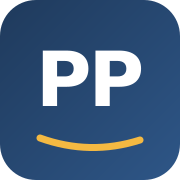
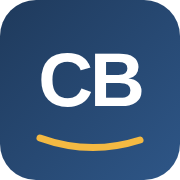
Branding: remove the last Penn references from the platform/demo storefront
Flipping the static shell surfaced more hardcoded Penn copy inside page
components (the demo storefront still said "PennBot"/"PennPaps" in several
places). The fix makes every brand reference dynamic so Penn still renders
PennPaps via host-resolution while the platform, demo, and new tenants show
CareMetric.

Static shell + push:
- index.html: title, description, OG/Twitter, and JSON-LD flipped to the
  CareMetric platform defaults (cmbreathe.com); per-tenant values are still
  set at runtime by the useDocumentTitle hook.
- public/sw-push.js: push-notification fallback title "PennPaps" →
  "CareMetric Breathe" (+ sw-push.test.ts updated).
- favicon.svg "PP" → "CB" and regenerated favicon-32.png / apple-touch-icon
  from it; the unused logo.svg wordmark → "CareMetric".

Storefront page copy made dynamic (useCompanyContact):
- "Ask PennBot" CTAs and empty-state mentions → {assistantStorefrontName}
  (insurance, faq, help, masks, returns).
- App.tsx order-confirmation message and the provider portal chrome →
  {legalName}; biometric unlock reason → the tenant brand; provider sign-in
  recovery line and FAQ answers reworded brand-neutral.

Verified: a live demo scan of /, /shop, /account, /how-it-works, /insurance,
/faq, /help, /masks, /returns now finds ZERO Penn references; typecheck and
the full cpap-fitter suite (3759 tests) pass.

Claude-Session: https://claude.ai/code/session_01QYRxY1dS7HYjBdg8u4MRgx

diff --git a/artifacts/cpap-fitter/index.html b/artifacts/cpap-fitter/index.html
@@ -8,59 +8,58 @@
       copy, and form fields. WCAG 2.1 SC 1.4.4 (Resize text).
     -->
     <meta name="viewport" content="width=device-width, initial-scale=1.0" />
-    <title>
-      PennPaps.com — CPAP Fitter, Shop & Resupply by Penn Home Medical Supply
-    </title>
+    <title>CareMetric Breathe — CPAP Fitter, Shop &amp; Resupply</title>
     <meta
       name="description"
-      content="PennPaps.com is the online CPAP storefront from Penn Home Medical Supply: get fitted for a mask in minutes, shop cushions, filters, and tubing direct, and let us handle insurance and resupply. Privacy-first, on-device fitting."
+      content="CareMetric Breathe is the online CPAP/DME resupply platform: get fitted for a mask in minutes, shop cushions, filters, and tubing direct, and let us handle insurance and resupply. Privacy-first, on-device fitting."
     />
 
     <!--
-      Per-page canonical URLs are managed at runtime by the
-      useDocumentTitle hook (see src/hooks/use-document-title.tsx),
-      which points each route at its production-shaped URL on
-      pennpaps.com. We deliberately do NOT ship a static
-      <link rel="canonical"> here because a single hardcoded
-      canonical would tell search engines that every SPA route is
-      the same as the homepage and collapse indexation.
+      This static shell carries the CareMetric Breathe *platform* defaults.
+      Per-tenant title/description/canonical are set at runtime by the
+      useDocumentTitle hook (see src/hooks/use-document-title.tsx), which
+      points each route at its production-shaped URL on the active tenant's
+      own domain. We deliberately do NOT ship a static
+      <link rel="canonical"> here because a single hardcoded canonical
+      would tell search engines that every SPA route is the same as the
+      homepage and collapse indexation.
     -->
 
     <!-- Open Graph / social preview -->
     <meta property="og:type" content="website" />
     <meta
       property="og:title"
-      content="PennPaps.com — by Penn Home Medical Supply"
+      content="CareMetric Breathe — your CPAP, made simple"
     />
     <meta
       property="og:description"
-      content="Your CPAP, made simple. Get fitted for a mask, shop supplies, and stay on schedule with resupply — direct from Penn Home Medical Supply. Your face image never leaves your device."
+      content="Your CPAP, made simple. Get fitted for a mask, shop supplies, and stay on schedule with resupply. Your face image never leaves your device."
     />
     <meta property="og:image" content="/opengraph.jpg" />
     <!--
       og:url is read by social bots at share time. Bots typically do
       NOT execute JS, so a static value here is the right call for an
-      SPA without SSR. Pointing every share preview at the production
+      SPA without SSR. Pointing every share preview at the platform
       homepage avoids share cards that show preview/staging hostnames.
     -->
-    <meta property="og:url" content="https://pennpaps.com/" />
-    <meta property="og:site_name" content="Penn Home Medical Supply" />
+    <meta property="og:url" content="https://cmbreathe.com/" />
+    <meta property="og:site_name" content="CareMetric Breathe" />
     <meta name="twitter:card" content="summary_large_image" />
     <meta
       name="twitter:title"
-      content="PennPaps.com — by Penn Home Medical Supply"
+      content="CareMetric Breathe — your CPAP, made simple"
     />
     <meta
       name="twitter:description"
-      content="Your CPAP, made simple. Get fitted for a mask, shop supplies, and stay on schedule with resupply — direct from Penn Home Medical Supply."
+      content="Your CPAP, made simple. Get fitted for a mask, shop supplies, and stay on schedule with resupply."
     />
     <meta name="twitter:image" content="/opengraph.jpg" />
 
     <!--
-      Content Security Policy. The privacy promise of PennPaps is that the
-      patient's face image stays on-device. We enforce that at the browser
-      level by restricting where the page may load resources from and where
-      it may post data:
+      Content Security Policy. The privacy promise of CareMetric Breathe is
+      that the patient's face image stays on-device. We enforce that at the
+      browser level by restricting where the page may load resources from and
+      where it may post data:
 
         - Scripts/styles/images: same-origin only (+ inline for Vite's
           dev runtime and Tailwind, +blob/data for the captured image
@@ -110,20 +109,21 @@
     />
 
     <!--
-      JSON-LD structured data. Tells search engines that pennpaps.com is the
-      online storefront for a real local medical-equipment supplier in PA, so
-      the brand can show up in Google's knowledge panels and local pack.
+      JSON-LD structured data. Platform defaults for the CareMetric Breathe
+      CPAP/DME resupply storefront, so the brand can show up in Google's
+      knowledge panels. Per-tenant publisher details are emitted at runtime
+      by the useDocumentTitle hook for each tenant's own domain.
     -->
     <script type="application/ld+json">
       {
         "@context": "https://schema.org",
         "@type": "MedicalBusiness",
-        "name": "Penn Home Medical Supply",
-        "alternateName": "PennPaps",
-        "url": "https://pennpaps.com",
-        "logo": "https://pennpaps.com/logo.svg",
-        "image": "https://pennpaps.com/opengraph.jpg",
-        "description": "Online CPAP storefront from Penn Home Medical Supply. Get fitted for a mask in minutes, shop cushions, filters, tubing, and headgear, and stay on schedule with resupply.",
+        "name": "CareMetric Breathe",
+        "alternateName": "CareMetric",
+        "url": "https://cmbreathe.com",
+        "logo": "https://cmbreathe.com/breathe/caremetric-logo.png",
+        "image": "https://cmbreathe.com/opengraph.jpg",
+        "description": "CareMetric Breathe — the online CPAP/DME resupply platform. Get fitted for a mask in minutes, shop cushions, filters, tubing, and headgear, and stay on schedule with resupply.",
         "areaServed": "US",
         "medicalSpecialty": "Pulmonary",
         "priceRange": "$$",
@@ -131,7 +131,7 @@
         "potentialAction": {
           "@type": "ReserveAction",
           "name": "Start virtual mask fitting",
-          "target": "https://pennpaps.com/capture"
+          "target": "https://cmbreathe.com/capture"
         }
       }
     </script>

diff --git a/artifacts/cpap-fitter/src/pages/faq.tsx b/artifacts/cpap-fitter/src/pages/faq.tsx
@@ -119,7 +119,7 @@ const sections: FaqSection[] = [
     id: "choosing-a-mask",
     title: "Choosing the Right Mask",
     blurb:
-      "How to think about mask styles, fit, and what PennPaps recommends for your face shape.",
+      "How to think about mask styles, fit, and what we recommend for your face shape.",
     Icon: Glasses,
     items: [
       {
@@ -228,7 +228,7 @@ const sections: FaqSection[] = [
         ),
       },
       {
-        q: "Can I order replacement supplies through PennPaps?",
+        q: "Can I order replacement supplies through this site?",
         a: (
           <>
             Yes, two ways. (1) <strong>Resupply program</strong> — once you're
@@ -308,8 +308,7 @@ const sections: FaqSection[] = [
             <strong>headgear every 6 months</strong> (elastic stretches),{" "}
             <strong>tubing every 3 months</strong>, and{" "}
             <strong>filters monthly</strong>. Insurance typically covers this
-            cadence — PennPaps's resupply program tracks it for you
-            automatically.
+            cadence — our resupply program tracks it for you automatically.
           </>
         ),
       },
@@ -344,7 +343,7 @@ const sections: FaqSection[] = [
             Mask marks usually mean the headgear is too tight or the cushion is
             the wrong size. Loosen the straps until you hear a slight leak, then
             tighten in tiny increments until it stops. If marks persist, it's a
-            fit issue — retake the PennPaps scan or contact us for an exchange.
+            fit issue — retake the scan or contact us for an exchange.
           </>
         ),
       },
@@ -411,9 +410,8 @@ const sections: FaqSection[] = [
           <>
             This is almost always a comfort issue — the mask is too tight, the
             cushion is wrong, or the pressure feels too high. Don't push through
-            it. Retake the PennPaps scan and contact us; we'll help you switch
-            to a better-tolerated style at no extra charge during your first 30
-            days.
+            it. Retake the scan and contact us; we'll help you switch to a
+            better-tolerated style at no extra charge during your first 30 days.
           </>
         ),
       },
@@ -696,7 +694,7 @@ export function Faq() {
               data-testid="faq-ask-pennbot"
             >
               <Sparkles className="w-3 h-3" />
-              Ask PennBot
+              Ask {contact.assistantStorefrontName}
             </Button>
             <span className="hidden sm:inline">— typed answers in seconds</span>
           </div>
@@ -751,7 +749,7 @@ export function Faq() {
               <p className="text-sm text-muted-foreground max-w-md mx-auto">
                 Try a different keyword, ask{" "}
                 <strong className="text-[hsl(var(--penn-navy))]">
-                  PennBot
+                  {contact.assistantStorefrontName}
                 </strong>{" "}
                 in the chat bubble (bottom-right), or{" "}
                 <Link

diff --git a/artifacts/cpap-fitter/src/pages/provider/provider-ui.tsx b/artifacts/cpap-fitter/src/pages/provider/provider-ui.tsx
@@ -11,6 +11,7 @@ import { Link, useLocation } from "wouter";
 import { LogOut, ShieldCheck } from "lucide-react";
 
 import { providerAuthHooks } from "@/lib/provider/provider-auth";
+import { useCompanyContact } from "@/lib/contact";
 
 export function Button({
   variant = "primary",
@@ -137,6 +138,7 @@ export function ProviderShell({
   children: ReactNode;
 }) {
   const signOut = providerAuthHooks.useSignOut();
+  const { legalName } = useCompanyContact();
   return (
     <div className="provider-portal min-h-screen bg-slate-50 text-slate-900">
       <header className="border-b border-slate-200 bg-white">
@@ -151,7 +153,7 @@ export function ProviderShell({
             <span className="flex flex-col leading-tight">
               <span className="text-sm">Provider Portal</span>
               <span className="text-[11px] font-normal uppercase tracking-wider text-slate-400">
-                Penn Home Medical Supply
+                {legalName}
               </span>
             </span>
           </Link>
@@ -185,6 +187,7 @@ export function ProviderShell({
 
 /** Centered card layout for the sign-in / MFA screens. */
 export function ProviderAuthLayout({ children }: { children: ReactNode }) {
+  const { legalName } = useCompanyContact();
   return (
     <div className="provider-portal flex min-h-screen flex-col items-center justify-center bg-slate-50 px-4 py-10 text-slate-900">
       <div className="mb-6 flex items-center gap-2.5 font-semibold">
@@ -194,7 +197,7 @@ export function ProviderAuthLayout({ children }: { children: ReactNode }) {
         <span className="flex flex-col leading-tight">
           <span className="text-base">Provider Portal</span>
           <span className="text-[11px] font-normal uppercase tracking-wider text-slate-400">
-            Penn Home Medical Supply
+            {legalName}
           </span>
         </span>
       </div>

diff --git a/artifacts/cpap-fitter/public/sw-push.js b/artifacts/cpap-fitter/public/sw-push.js
@@ -1,4 +1,4 @@
-// PennPaps push-notification service worker (Phase C.1, feature #4).
+// CareMetric Breathe push-notification service worker (Phase C.1, feature #4).
 //
 // Purpose: receive Web Push events from the server and surface them
 // as browser notifications, plus open /account on click.
@@ -29,10 +29,10 @@ self.addEventListener("push", (event) => {
     try {
       payload = event.data.json();
     } catch (_err) {
-      payload = { title: "PennPaps", body: event.data.text() };
+      payload = { title: "CareMetric Breathe", body: event.data.text() };
     }
   }
-  const title = payload.title || "PennPaps";
+  const title = payload.title || "CareMetric Breathe";
   const options = {
     body: payload.body || "",
     icon: "/icon-192.png",
@@ -73,7 +73,7 @@ self.addEventListener("notificationclick", (event) => {
     self.clients
       .matchAll({ type: "window", includeUncontrolled: true })
       .then((clientList) => {
-        // Re-focus an existing PennPaps tab if one is open; otherwise
+        // Re-focus an existing CareMetric Breathe tab if one is open; otherwise
         // open a new one. This matches the standard W3C example and
         // avoids spawning a new tab on every click.
         for (const client of clientList) {

diff --git a/artifacts/cpap-fitter/src/App.tsx b/artifacts/cpap-fitter/src/App.tsx
@@ -14,6 +14,7 @@ import { Layout } from "@/components/layout";
 import { ErrorBoundary } from "@/components/error-boundary";
 import { CartSnapshotSync } from "@/hooks/use-cart-snapshot";
 import { lazyWithRetry } from "@/lib/lazy-with-retry";
+import { getCompanyContact } from "@/lib/contact";
 
 // The landing page is the ONE eagerly-imported route. It's the most
 // common entry point, so keeping it in the initial chunk avoids a
@@ -881,8 +882,7 @@ function GuardedOrderSuccess() {
             "fitter_order_confirmation",
             JSON.stringify({
               orderReference: data.orderReference,
-              message:
-                "Your order has been sent to Penn Home Medical Supply. A team member will contact you within 1 business day to confirm and arrange shipping.",
+              message: `Your order has been sent to ${getCompanyContact().legalName}. A team member will contact you within 1 business day to confirm and arrange shipping.`,
               mask: {
                 name: data.mask.name,
                 manufacturer: data.mask.manufacturer ?? "",

diff --git a/artifacts/cpap-fitter/src/hooks/use-biometric-signin.ts b/artifacts/cpap-fitter/src/hooks/use-biometric-signin.ts
@@ -18,6 +18,8 @@
 
 import { useCallback, useEffect, useRef, useState } from "react";
 
+import { getCompanyContact } from "@/lib/contact";
+
 import {
   isNativeApp,
   promptBiometric,
@@ -42,7 +44,6 @@ export interface UseBiometricSignIn {
 }
 
 const DEFAULT_LABEL = "Face ID / Touch ID";
-const DEFAULT_REASON = "Unlock PennPaps";
 
 export function useBiometricSignIn(): UseBiometricSignIn {
   const [available, setAvailable] = useState(false);
@@ -81,7 +82,9 @@ export function useBiometricSignIn(): UseBiometricSignIn {
   const prompt = useCallback(async (reason?: string): Promise<boolean> => {
     setBusy(true);
     try {
-      const r = await promptBiometric(reason ?? DEFAULT_REASON);
+      const r = await promptBiometric(
+        reason ?? `Unlock ${getCompanyContact().name}`,
+      );
       if (mountedRef.current) {
         setLastResult(r);
       }

diff --git a/artifacts/cpap-fitter/src/pages/help.tsx b/artifacts/cpap-fitter/src/pages/help.tsx
@@ -427,7 +427,7 @@ export function Help() {
               <p className="text-sm text-muted-foreground max-w-md mx-auto">
                 Try a different keyword, ask{" "}
                 <strong className="text-[hsl(var(--penn-navy))]">
-                  PennBot
+                  {contact.assistantStorefrontName}
                 </strong>{" "}
                 in the chat bubble, or{" "}
                 <Link
@@ -585,7 +585,7 @@ export function Help() {
             data-testid="help-cta-pennbot"
           >
             <Sparkles className="w-4 h-4" />
-            Ask PennBot
+            Ask {contact.assistantStorefrontName}
           </Button>
           {contact.phoneE164 && (
             <a href={`tel:${contact.phoneE164}`}>

diff --git a/artifacts/cpap-fitter/src/sw-push.test.ts b/artifacts/cpap-fitter/src/sw-push.test.ts
@@ -186,8 +186,8 @@ describe("sw-push.js — install/activate/push listeners still present", () => {
     expect(SW_SRC).toContain("self.registration.showNotification(");
   });
 
-  it("push listener falls back to generic title when event.data is missing", () => {
-    expect(SW_SRC).toContain('payload.title || "PennPaps"');
+  it("push listener falls back to the platform title when event.data is missing", () => {
+    expect(SW_SRC).toContain('payload.title || "CareMetric Breathe"');
   });
 
   it("push listener stashes url in notification data for the click handler", () => {

diff --git a/artifacts/cpap-fitter/src/pages/provider/provider-sign-in.tsx b/artifacts/cpap-fitter/src/pages/provider/provider-sign-in.tsx
@@ -150,8 +150,7 @@ export function ProviderSignIn() {
               Recovery is coordinator-mediated.
             */}
             <p className="text-center text-sm text-slate-500">
-              Locked out? Contact your PennPaps coordinator to reset your
-              access.
+              Locked out? Contact your account coordinator to reset your access.
             </p>
           </form>
         ) : (

diff --git a/artifacts/cpap-fitter/src/pages/insurance.tsx b/artifacts/cpap-fitter/src/pages/insurance.tsx
@@ -472,7 +472,7 @@ export function Insurance() {
             data-testid="insurance-ask-pennbot"
           >
             <Sparkles className="w-4 h-4" />
-            Ask PennBot
+            Ask {c.assistantStorefrontName}
           </Button>
         </div>
         <div className="glass-card rounded-2xl p-2 sm:p-4">

diff --git a/artifacts/cpap-fitter/src/pages/returns.tsx b/artifacts/cpap-fitter/src/pages/returns.tsx
@@ -185,7 +185,7 @@ export function ReturnsPage() {
             data-testid="returns-ask-pennbot"
           >
             <Sparkles className="w-4 h-4 mr-1.5" />
-            Ask PennBot
+            Ask {contact.assistantStorefrontName}
           </Button>
         </div>
       </section>

diff --git a/artifacts/cpap-fitter/src/pages/masks.tsx b/artifacts/cpap-fitter/src/pages/masks.tsx
@@ -121,7 +121,7 @@ export function Masks() {
             data-testid="masks-ask-pennbot"
           >
             <Sparkles className="w-3.5 h-3.5" />
-            Ask PennBot
+            Ask {c.assistantStorefrontName}
           </Button>
         </div>
       </div>
